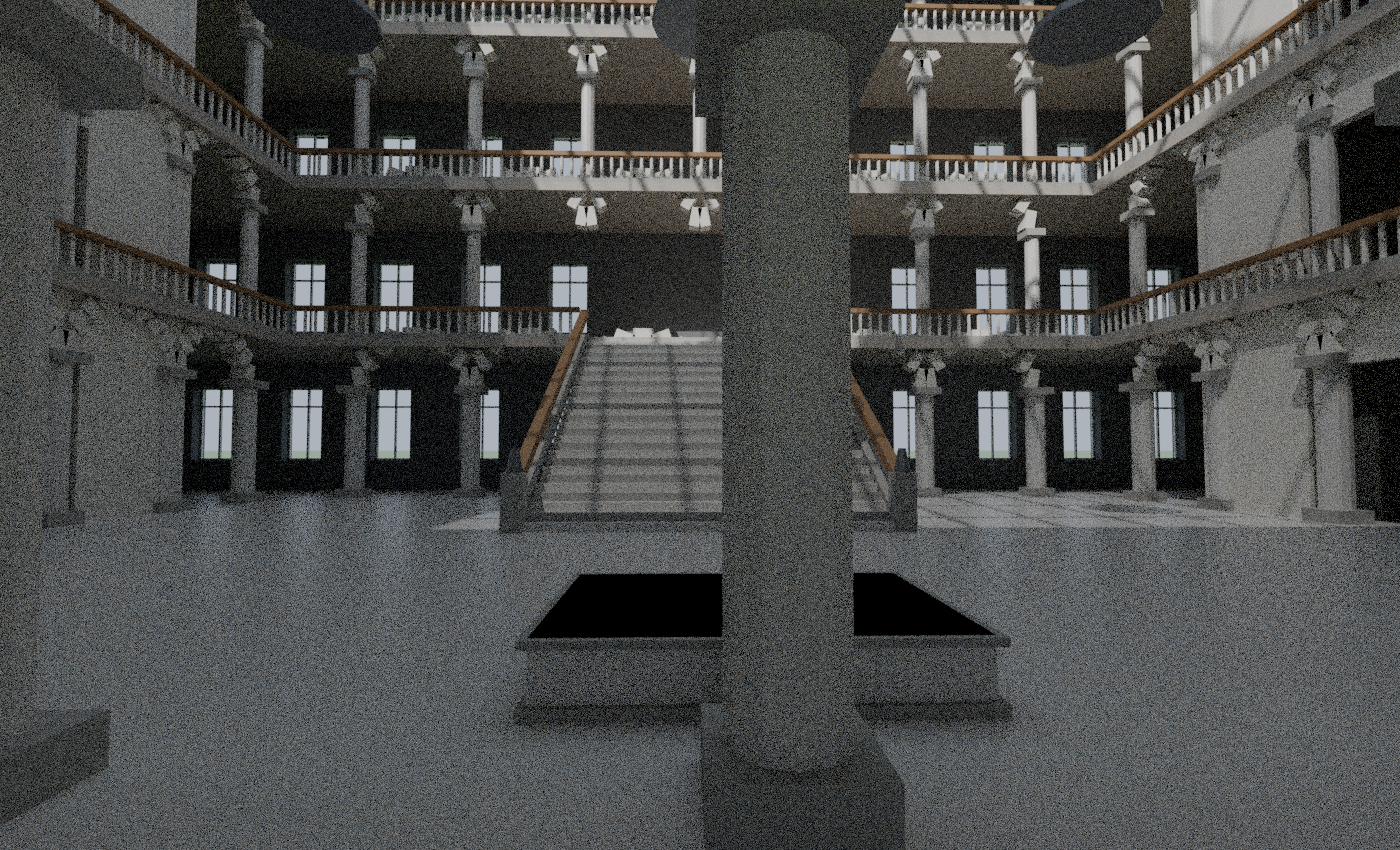
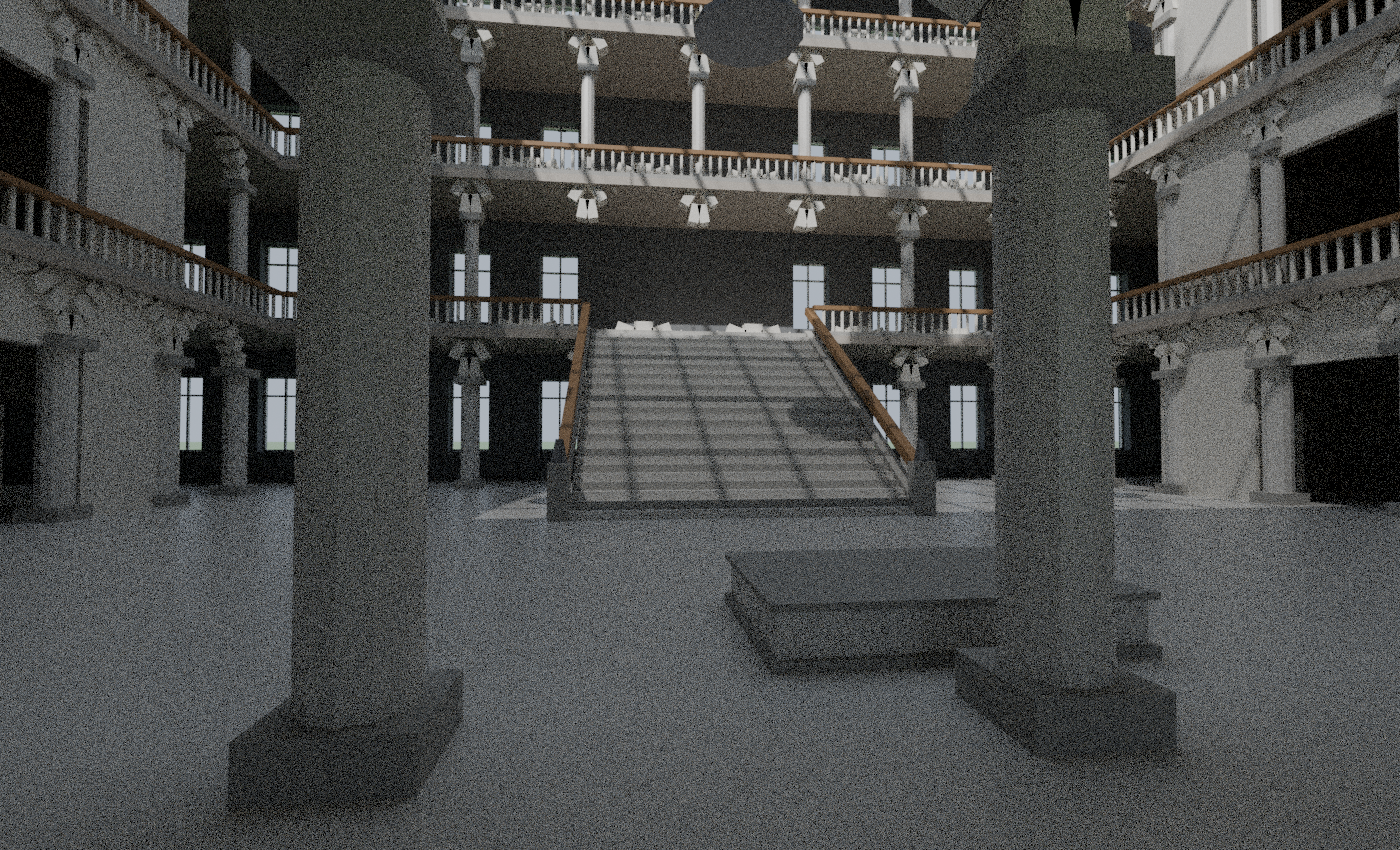
Loop: combat rounds 5a and 11 approved, lessons

diff --git a/.claude/loop/kontroll/runde-05a.md b/.claude/loop/kontroll/runde-05a.md
@@ -1,0 +1,135 @@
+**GODKJENT** – runde 5a (lag Kamp): ballistikk, commit `a28c23e`
+
+Lest fra commiten (`git show a28c23e`, hele `GSBallistics.h/.cpp`, `GSCharacter.cpp` og `GSHUD.cpp` slik de står
+i commiten), mot `ko/plan-05.md`, `kontroll/forhand-plan-05.md`, `catalog.py` og motorkoden i UE 5.8. Ikke
+bygget selv (byggeren: `Result: Succeeded`).
+
+## 1. Forhåndssjekken, punkt for punkt
+| Punkt i `forhand-plan-05.md` | Fulgt? |
+|---|---|
+| A1 juks med `ShotIndex` | Ja. `Jump = ShotIndex − LastServerShotIndex` regnes i `int64`; `Jump <= 0` avvises; frøet fra nøkkel + nummer brukes bare ved `Jump <= 3`, ellers `FMath::RandHelper(MAX_int32)`. `LastServerShotIndex` settes først etter retningskravet og skuddkontoen. Et stort tall (f.eks. `INT_MAX`) stenger bare juksemakeren selv ute. |
+| A2 upålitelig `ServerFire` | Riktig utsatt til 5b. `ServerFire` er fortsatt `Reliable`. |
+| A3 skadefall fra munningen | Rettet. `DamageScale` regnes fra avstanden, nøyaktig 1,0 ut til `ZeroM` (se tabellen under). |
+| A4 lysspor per steg | Utsatt til 5b. `Step` lager ingen lysspor. Streken (`GSDrawShotStreak`) er én per skudd/hagl og høyst 50 m, som før. |
+| A5 levetid | Ja: 1,5 s, 600 m, over 150 m, under −20 m, 50 m utenfor `PlayArea()`, under 80 m/s. Viste kuler: ett spor per `Tick`. |
+| A6 spredningens størrelse | Ja. `SpreadQ` sendes med, eieren bruker selv den pakkede verdien, serveren klemmer til 0,85–1,15 × sin egen (ikke for verten). Serverens rekyl for fjerne klienter legges til **etter** at `Own` er regnet, som i `FireOnce`. |
+| A7 holdemerker | Utsatt til 5b (`HoldUnder` finnes, ubrukt). |
+| A8 startpunkt 120 cm, ballistikk fra våpenet i `DrawPellets` | Ja, begge. |
+| B framspoling | Ja: `min(ping/2, 0,1 s)` i delsteg, 0 for verten. |
+| C samspill med runde 4 | Ja: `ECC_Visibility`, linjespor, `Hit.GetComponent()` er treffboksen, så `ZoneOf` virker. Hodeskudd-innskuddet ligger i runde 4s `Zone == GSZone::Head`-blokk. `Origin` lagres i kula. |
+| E1 ekte/vist kule | Ja. Bare den viste lager støv, bare den ekte skader. |
+| E2 referanse inn i `Bullets` | Ja. Kula kopieres før `Step`, nye kuler går i `Pending` og flettes inn etter løkka. `FireReal` bruker en lokal kule under framspolingen. `W.Id`/`W.AmmoType` kopieres før `FireReal`. |
+| E3 `RandHelper` for `SpreadKey` | Ja. |
+| E5 logg av avviste skudd | Ja, med vinkel (og `Acos` klemt). |
+| E6 ikke dobbel rekyl hos verten | Ja (`!IsLocallyControlled()`). |
+| E8 `FCollisionQueryParams` én gang per `Tick` | Ja (`ClearIgnoredSourceObjects` + `AddIgnoredActor` per kule). |
+| E9 ikke rør `GSEffects`/`GSAudio`/`GSTypes` | Ja, ikke endret. |
+
+Planens steg 26 sjekket: `LineTraceSingleByChannel` i skytefunksjonene står bare i `GSDrawShotStreak` og i de to
+vegg-sjekkene i `ServerFire`; `S.Range` står bare i nærkampen (`GSCharacter.cpp:1020`). Alle kall til
+`ServerFire`, `MulticastShotFX` og `DrawPellets` har ny form. Alle kaliber i bruk for vanlige skudd finnes i
+tabellen (`flare` og `""` er bare prosjektilvåpen).
+
+## 2. Byggerens merknader
+- **Vegg-sjekkene bruker kanalspor på `ECC_WorldStatic`, som også treffer spillerkapsler.** Følgene er ufarlige:
+  står noen mellom øyet og det oppgitte startpunktet, brukes serverens eget øye (skuddet går likevel), og en
+  rakett mot en fiende nærmere enn 80 cm starter 15 cm foran kapselen hans i stedet for inni ham. Ingen skudd går
+  tapt. Lærdommen sier likevel objektspor (LAV, F2 under).
+- **Verten har to kuler per skudd:** riktig skilt (`bReal`). Ingen dobbel skade, ingen dobbelt støv.
+- **`t.MaxFPS` med konsoll-prioritet i editoren:** riktig grunn (`EndPlay` setter 0 med konsoll-prioritet, en svakere
+  `Set` i neste Play ville ellers blitt stille avvist). Liten bivirkning, se F4.
+- **`AddNow` og tak på 600:** riktig. Når taket er nådd fjernes den eldste **viste** kula; ekte kuler fjernes aldri.
+  Søket er O(n) per ny kule bare når tabellen er full – ubetydelig.
+- **`GetPingInMilliseconds` er tur-retur:** sjekket i motoren. `NetConnection.cpp:3135` sender `PlayerFacingPing`
+  (RTT eller RTT uten bildetid) til `APlayerController::UpdatePing` → `APlayerState::UpdatePing` → `ExactPing`
+  (gjennomsnitt i ms), og `GetPingInMilliseconds` gir `ExactPing` (eller `CompressedPing * 4`). `× 0,0005` er
+  altså halve tur-returen i sekunder. Riktig.
+
+## 3. Regnet etter
+**Kulefall** (bare tyngdekraft, analytisk som i koden):
+- 9 mm, 80 m: flytid 0,236 s, fall 27,3 cm, innskytingen løfter 7,9 cm → **19,5 cm lavt** (planen: ca. 19).
+- 7,62 NATO, 300 m: flytid 0,400 s, fall 78,4 cm, løft 22,5 cm → **56 cm lavt** (planen: ca. 56).
+- Hagl på 40 m: skadefaktor 0,86 (planen: 0,86). 7,62 NATO på 300 m: 0,795 (planen: 0,80).
+
+**Skade per treff i brystet (uten vest, 100 liv), før → etter, og antall treff for å drepe.**
+«Før» bruker katalogens gamle `range`: MP40 60 m, Pump 40 m, Garand 350 m, L96 800 m – utenfor den var skaden 0.
+| Våpen (kaliber) | 25 m | 50 m | 100 m |
+|---|---|---|---|
+| Garand (7,62 NATO, 50) | 50 → 50 (2 → 2) | 50 → 50 (2 → 2) | 50 → 50 (2 → 2) |
+| MP40 (9 mm, 20) | 20 → 20 (5 → 5) | 20 → 18,8 (5 → 6) | **0** → 16,8 (aldri → 6) |
+| Pump, per hagl (12g, 13 × 9) | 13 → 13 (8 hagl → 8) | **0** → 10,2 (aldri → 10 hagl, mer enn ett skudd) | **0** → 6,6 (aldri → 16 hagl) |
+| L96 (7,62 NATO, 95) | 95 → 95 (2 → 2) | 95 → 95 (2 → 2) | 95 → 95 (2 → 2) |
+
+Innenfor innskytingsavstanden trenger ingen våpen flere treff enn før. Planens forventning stemmer, med én
+presisering: MP40 på 100 m og Pump på 50/100 m gjorde **0** før (utenfor rekkevidden), så der er det en økning,
+ikke et fall. Eneste svekkelse: MP40 på 50 m går fra 5 til 6 treff (18,84 × 5 = 94). Det er ønsket realisme
+(utenfor 25 m-innskytingen), og loggens linje 388 sier «på vanlig hold».
+
+## 4. Det som er sjekket og er i orden
+- **Juks, spredning:** `SpreadQ = 0` fra en juksende klient klemmes opp til 0,85 × serverens egen. Restjuksen er
+  som planen sa: beste av tre mønstre og 15 % mindre kjegle.
+- **Juks, retning:** 35° (`0.82f`) mot `GetBaseAimRotation()` (serverens kontrollrotasjon), ikke for verten.
+- **Juks, start:** 120 cm og ingen vegg imellom, ellers øyet. Rundt et hjørne kan en klient fortsatt flytte starten
+  inntil 1,2 m langs veggen (linja øye→start krysser ikke veggen) – kjent og godtatt i planen.
+- **Skudd forsvinner aldri stille** av ballistikken selv: ekte kuler kastes aldri for taket, `Pending` flettes alltid
+  inn, framspolingen stopper bare når kula traff noe eller forlot banen. De eneste stedene et skudd faller bort er
+  de planlagte (retningskravet med logg, skuddkontoen og ammo/lading som før).
+- **Ytelse, vert med 20 spillere:** ekte kule = ett linjespor per 1/60 s, vist kule = ett per bilde. 20 × MG3
+  (400 skudd/s) gir i verste fall (alle skyter bortover åpent terreng, levetid høyst ca. 0,5 s før de er ute av
+  området) ca. 200 ekte + 200 viste kuler i lufta, ca. 24 000 korte spor i sekundet; i vanlig spill (kuler treffer
+  vegg etter 0,05–0,2 s) noen tusen. Hagl: 9 ekte + 9 viste, framspolingen høyst 6 spor per hagl med én gang.
+  Støvet har sitt eget felles tak i `SpawnImpact` (`GSEffects.cpp:426–431`). Ingen ny aktør eller nytt materiale per
+  kule. Godt nok for 5a; flygende lysspor i 5b må få eget tak.
+- **Kroppssoner, blod, venneild:** `TakeDamage` får `FPointDamageEvent` med treffboksen, `Instigator` og
+  `Shooter`. Lagsjekken øverst er urørt og stopper venneild (kula stopper i lagkameraten, ingen blod/merke).
+  Blod: `(DamageCauser || bBullet)`, så en kule fra en frakoblet skytter blør fortsatt; taket på 3 sår per bilde
+  gjelder alle hagl. `WoundDir`-linja er vernet (`&& DamageCauser`). Drapsloggen og hodeskudd følger
+  `IncomingWeaponId`; retningskilen bruker `IncomingOrigin`; blodtørst krever `!Shooter->bDead`.
+- **Replikering:** `SpreadKey` bare til eieren (`COND_OwnerOnly`), ny nøkkel per figur. `ServerFire` pålitelig.
+  `MulticastShotFX` sender retningen (med spredning og løft) så andre maskiner ikke løfter den på nytt; hagl får
+  frøet, så alle tegner samme hagl, også når serveren trakk sitt eget frø.
+- **Andreas' faste regel:** oppfylt. Forbedret: `ServerFire` (spredning, retning, start), haglene, drapslogg/hodeskudd,
+  retningskilen (391, 393–396, 398–399). Nytt: kuler med flytid og fall, skadefall og innskyting, framspoling,
+  `gs.ShowBullets` (386–390, 392, 397). `IMPROVEMENTS.md` er ført (386–401, og 446–449 for rettingene fra runde 11;
+  ingen dobbelte numre i filen). Bestillingen til Spillbarhet (steg 27) er skrevet.
+- **Utenfor planen:** små endringer i `GSHUD.cpp` og `GSPlayerController.*`. Det er rettingene jeg selv ba om i
+  forhåndssjekken av runde 11 (F1, F3, F4, F6), ført som 446–449. Godtatt.
+
+## 5. Funn (ingen hindrer godkjenning)
+**F1. LAV–MIDDELS: 0,1°-trinnene i `SpreadQ` er grovere enn de mest presise våpnene – `GSBallistics.cpp:122–130`.**
+L96 siktet har 0,05° (Barrett 0,08°). `PackSpread(0.05)` = `RoundToInt(0.5)` = 1 → 0,1°. Verten (ikke klemt)
+får dobbelt så stor kjegle som katalogen (8,7 cm i stedet for 4,4 cm på 100 m); L96 siktet i huk (0,035°) blir 0 →
+helt uten spredning. For klienter klemmer serveren 0,1 til 0,0575, så kula de ser og serverens går i litt ulik
+kjegle (noen cm på 100 m). Rettelse (5b): finere trinn der det trengs, f.eks. `uint16` i 0,01°-trinn, eller
+ikke-lineært (0,01° under 1°, grovere over).
+
+**F2. LAV: vegg-sjekkene i `ServerFire` bør være objektspor – `GSCharacter.cpp:931` og `:954`.**
+Se punkt 2. Ufarlig nå, men `LineTraceSingleByObjectType` med `ECC_WorldStatic` + `ECC_WorldDynamic` (dører) gjør
+det slik lærdommen sier, og hindrer at en lagkamerat ved siden av deg flytter startpunktet ditt til øyet.
+
+**F3. LAV: venneild fra en frakoblet lagkamerat mens kula flyr.** `IsSparedFrom(nullptr)` gir `false`, så kuler som
+er i lufta (høyst 1,5 s) når skytteren kobler fra, skader lagkamerater. Sjelden. Rettelse: lagre skytterens lag i
+`FGSBullet` ved avfyring og sjekk det i `Step` før `TakeDamage`.
+
+**F4. LAV (bare i editoren): `EndPlay` på én spillerkontroller tar av taket for hele editoren** – `GSPlayerController.cpp:333–343`.
+Forlater klientvinduet kampen i PIE mens verten spiller videre, settes `t.MaxFPS` til 0 for begge. Og en `t.MaxFPS`
+Andreas har skrevet selv i editoren blir overstyrt ved hver Play. Ufarlig i et pakket spill. Kan rettes med en teller
+(sett 0 bare når siste lokale kontroller går).
+
+## 6. Hva Andreas skal teste (Number of Players: 2, Play As Listen Server, etter kampstart)
+- Skriv `gs.ShowBullets 1` i konsollen og skyt et gevær bortover plassen: en gul linje som bøyer nedover mot slutten.
+  Med pistol bøyer den mye før.
+- Pistol mot et merke ca. 80 m unna: kula treffer omtrent en håndbredd (ca. 20 cm) under der du siktet.
+- Skyt mot en vegg langt unna: støvet kommer et lite øyeblikk etter smellet.
+- Hagle på 5 m dreper som før. På 40–50 m gjør den nå litt skade (før: ingenting).
+- Skyt den andre og bytt våpen rett etter: drapsloggen viser våpenet du skjøt med.
+
+## Forslag til neste runde
+1. 5b som planlagt (`ko/plan-06.md`): upålitelig ild for automatvåpen, flygende lysspor med felles tak, smell/sus.
+   Ta med F1 (finere `SpreadQ`) der, siden RPC-en endres uansett.
+2. V8 (tilbakespoling av treffbokser) rett etter 5b: nå som kula har flytid, er det klientenes største ulempe mot verten.
+3. Lagre lag i kula (F3) og replikér lagnummeret på figuren (runde 11, F7) i samme lille runde.
+
+## Lærdom
+- Tall som pakkes for nettet må ha finere trinn enn den minste verdien de skal bære; regn ut den minste verdien i katalogen.
+- Det en kule eller et prosjektil trenger ved treff (lag, våpen, startpunkt) lagres ved avfyring; skytteren kan være borte når den treffer.

diff --git a/.claude/loop/logg.md b/.claude/loop/logg.md
@@ -2,6 +2,8 @@
 
 Én linje per runde, nyeste øverst: dato · runde · mål · resultat · rettinger · commit.
 
+- 2026-11-26 · runde 5a · ballistikk: kulefart, fall, skadefall, serverens spredning · godkjent (4 små funn til 5b) · 0 · a28c23e
+- 2026-11-26 · runde 11 · CTF i HUD og på kroppen, lagfarger, flagg-radio, 60 fps-tak · godkjent · 0 · 86ecf6c
 - 2026-11-26 · runde 4 · kroppssoner, bein-/armskade, V1/V3/V5, styreflate-scroll · MÅ FIKSES (skuddkonto avviser ekte skudd) – rettes i neste bygg · 1 · 60a516c
 - 2026-11-26 · feilretting 2 · musehjul, prosjektilretning, miner, dødskort, kast fra klient · godkjent (4 små merknader) · 0 · 2f04300
 - 2026-11-26 · runde 3 · blod: sky, sprut, dråper, pøl, dødsstøt, kropper 90 s · godkjent (3 små funn) · 0 · f19d059

diff --git a/.claude/loop/laerdom.md b/.claude/loop/laerdom.md
@@ -35,4 +35,6 @@ Hver regel: én linje, med (runde N) bak, og et telletall når den bekreftes igj
 - Effekter som utløses per treff trenger en «én gang per øyeblikk»-vakt (hagl). (runde 4)
 - Unity-bygg: globale navn i anonyme namespace i én .cpp kan kollidere med navn i en annen. Bruk navngitte namespace (f.eks. `GSMenuImpl`) eller unike prefiks. (Spillbarhet runde 2)
 - Avsløring av fiender skal være realistisk (radiomelding om sted), ikke veggsyn med markør og avstand. (plan Spillbarhet 3)
+- Tall som pakkes for nettet må ha finere trinn enn den minste verdien de skal bære. (runde 5a)
+- Det en kule trenger når den treffer (lag, våpen, startpunkt) lagres når den skytes. (runde 5a)
 

diff --git a/.claude/loop/kontroll/runde-11-forhand.md b/.claude/loop/kontroll/runde-11-forhand.md
@@ -1,3 +1,5 @@
+**ENDELIG (commit `86ecf6c`, lest sammen med `a28c23e`): GODKJENT.** Bygget er gått gjennom (`Result: Succeeded`), og commiten stemmer med det som ble forhåndssjekket. F1, lobbydelen av F3, F4 og F6 er rettet i `a28c23e` (446–449). F2, resten av F3 (overlapp med `GSHelp`, Spillbarhets filer), F5 (poengtavla på 720p) og F7 (lik uten armbind for sene klienter) står igjen som små ting til senere.
+
 **FORHÅNDSSJEKK (ikke bygget): ingen sikre kompileringsfeil funnet i lag Kamps filer. Kan bygges når editoren er lukket. Små ting bør rettes, se under.**
 
 Lest fra arbeidsmappen (ucommittet), ikke bygget, fordi Andreas har editoren åpen. Endelig GODKJENT kan først gis
